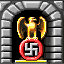
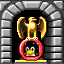
Correctly delete boss intro item. Get rid of Nazi references.

Changed region(s): [[0.375, 0.625, 0.625, 0.875]]

diff --git a/level.rb b/level.rb
@@ -93,7 +93,7 @@ public
     { :north => 'blue2_1.png', :east => 'blue1_2.png', :south => 'blue1_1.png', :west => 'blue1_2.png' },
     { :north => 'blue3_1.png', :east => 'blue3_2.png', :south => 'blue3_1.png', :west => 'blue3_2.png' },
     { :north => 'wall_gray_flag.png', :east => 'wall_gray_flag.png', :south => 'wall_gray_flag.png', :west => 'wall_gray_flag.png' },
-    { :north => 'wall_wood_hitler.png', :east => 'wall_wood_hitler.png', :south => 'wall_wood_hitler.png', :west => 'wall_wood_hitler.png' },
+    { :north => 'wall_wood_tux.png', :east => 'wall_wood_tux.png', :south => 'wall_wood_tux.png', :west => 'wall_wood_tux.png' },
     
     # 15
     { :north => 'pratik.png', :east => 'pratik.png', :south => 'pratik.png', :west => 'pratik.png' },
@@ -110,7 +110,7 @@ public
     
     # 24
     { :north => 'wall_gray_eagle.png', :east => 'wall_gray_eagle.png', :south => 'wall_gray_eagle.png', :west => 'wall_gray_eagle.png' },
-    { :north => 'wall_gray_hitler.png', :east => 'wall_gray_hitler.png', :south => 'wall_gray_hitler.png', :west => 'wall_gray_hitler.png' },
+    { :north => 'wall_gray_tux.png', :east => 'wall_gray_tux.png', :south => 'wall_gray_tux.png', :west => 'wall_gray_tux.png' },
     
     { :north => 'door_1.png',  :east => 'door_2.png',  :south => 'door_1.png',  :west => 'door_2.png' },
   ]
@@ -271,7 +271,7 @@ public
         },
       InvisibleInfo.new(window, map, 54.5 * Map::GRID_WIDTH_HEIGHT, 33.5 * Map::GRID_WIDTH_HEIGHT) { |item, player|
           window.present_boss("Hongli Lai", "hongli_large.png")
-          map.items.delete(self)
+          map.items.delete(item)
         },
       InvisibleInfo.new(window, map, 49.9 * Map::GRID_WIDTH_HEIGHT, 44.5 * Map::GRID_WIDTH_HEIGHT) { |item, player|
           window.show_text("Is there anything to eat?") if !@eaten_at_kfc
